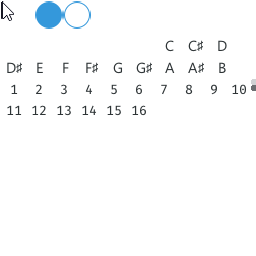
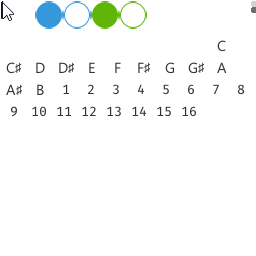
Root Note

diff --git a/rockivy/fretboard.py b/rockivy/fretboard.py
@@ -47,10 +47,11 @@ def _numbers():
             for c in xrange(1, FRET_COUNT + 1)]
 
 
-def _tuning(notes, scale_notes):
+def _tuning(notes, scale_notes, root_note):
     res = [Quad(x=FB_LEFT - LEGEND_OFFSET_X,
                 y=FRET_LENGTH - (c * STRING_SPACING) + FB_BOTTOM,
-                rot=0, size=1, op=1, tex='note_tun')
+                rot=0, size=1, op=1,
+                tex='root_note_tun' if notes[c] == root_note else 'note_tun')
            for c in xrange(STRING_COUNT) if notes[c] in scale_notes]
     return res + [Quad(x=FB_LEFT - LEGEND_OFFSET_X,
                        y=FRET_LENGTH - (c * STRING_SPACING) + FB_BOTTOM,
@@ -58,10 +59,11 @@ def _tuning(notes, scale_notes):
                   for c in xrange(STRING_COUNT)]
 
 
-def _notes(string, notes, scale_notes):
+def _notes(string, notes, scale_notes, root_note):
     y = FRET_LENGTH - (string * STRING_SPACING) + FB_BOTTOM
     res = [Quad(x=(c + 0.5) * FRET_SPACING + 0.5 + FB_LEFT,
-                y=y, rot=0, size=1, op=1, tex='note')
+                y=y, rot=0, size=1, op=1,
+                tex='root_note' if notes[c] == root_note else 'note')
            for c in xrange(FRET_COUNT) if notes[c] in scale_notes]
     return res + [Quad(x=(c + 0.5) * FRET_SPACING + 0.5 + FB_LEFT,
                        y=y, rot=0, size=1, op=1, tex='note_%s' % notes[c])
@@ -75,8 +77,9 @@ def build_fretboard(scale, tuning):
     rx(_frets())
     rx(_strings())
     rx(_numbers())
-    rx(_tuning(tuning['notes'], scale.notes))
+    rx(_tuning(tuning['notes'], scale.notes, scale.root_note))
     for c in xrange(STRING_COUNT):
-        rx(_notes(c, get_string(tuning['notes'][c], FRET_COUNT), scale.notes))
+        string = get_string(tuning['notes'][c], FRET_COUNT)
+        rx(_notes(c, string, scale.notes, scale.root_note))
 
     return res

diff --git a/rockivy/scales.py b/rockivy/scales.py
@@ -30,17 +30,32 @@ class BaseSeq(object):
 
 
 class Major(BaseSeq):
-    name = 'Major Scale'
+    '''Major Scale'''
+    name = __doc__
     size = (T, T, S, T, T, T, S)
 
 
 class Minor(BaseSeq):
-    name = 'Minor Scale'
+    '''Minor Scale'''
+    name = __doc__
     size = (T, S, T, T, S, T, T)
 
 
 class Blues(BaseSeq):
-    name = 'Blues Scale'
+    '''Blues Scale'''
+    name = __doc__
     size = (I3, T, S, S, I3, T)
 
-SCALES = (Major, Minor, Blues)
+
+class PentatonicMajor(BaseSeq):
+    '''Pentatonic Major'''
+    name = __doc__
+    size = (T, T, I3, T, I3)
+
+
+class PentatonicMinor(BaseSeq):
+    '''Pentatonic Minor'''
+    name = __doc__
+    size = (I3, T, T, I3, T)
+
+SCALES = (Major, Minor, PentatonicMajor, PentatonicMinor, Blues)

diff --git a/rockivy/radiobtn.py b/rockivy/radiobtn.py
@@ -18,7 +18,12 @@ class Radio(ToggleButton):
 
     def __init__(self, **kwargs):
         kwargs['background_normal'] = 'media/btn.png'
-        kwargs['background_down'] = 'media/btn_down.png'
+
+        if kwargs['group'] == 'notes':
+            kwargs['background_down'] = 'media/btn_down_g.png'
+        else:
+            kwargs['background_down'] = 'media/btn_down.png'
+
         kwargs['border'] = (2,) * 4
 
         if kwargs.get('state') == 'down':
